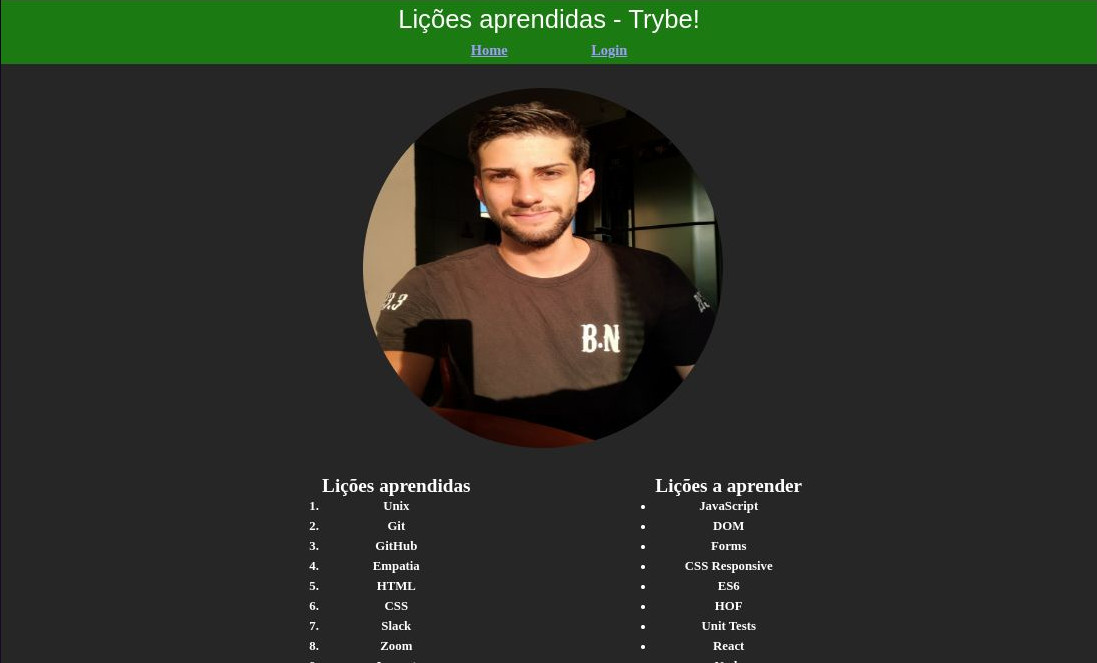
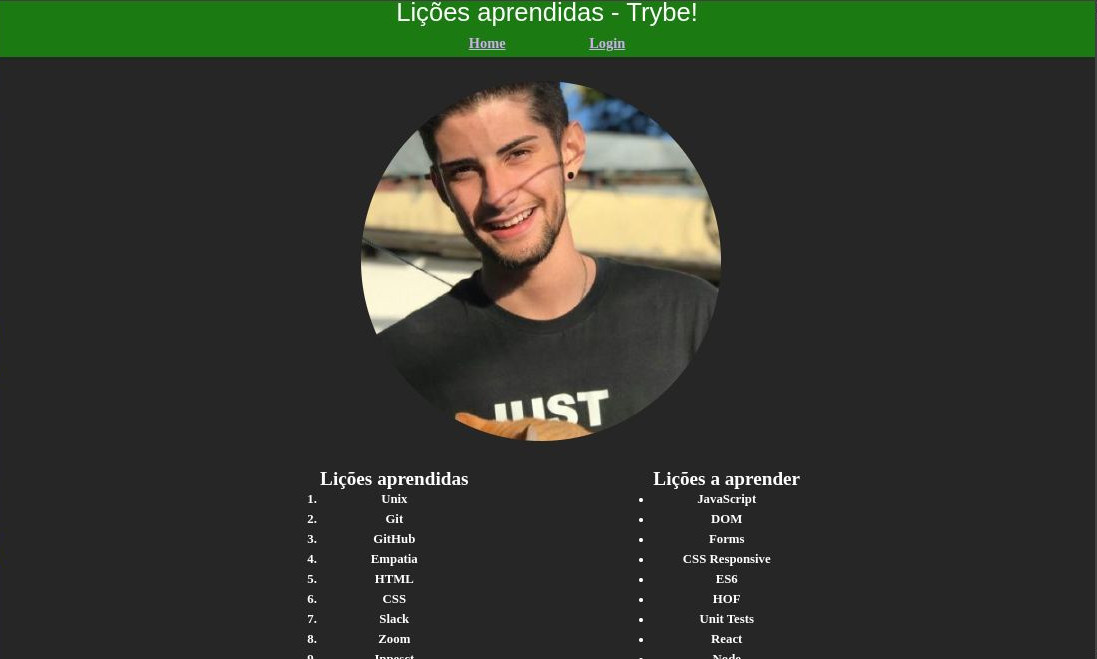
add new photo for preview

diff --git a/index.html b/index.html
@@ -19,7 +19,7 @@
     </header>
 
     <main>
-        <img id="minha_foto" src="./img/henrique.jpg" alt="foto-do-henrique-rocha">
+        <img id="minha_foto" src="./img/henrique.jpeg" alt="foto-do-henrique-rocha">
         <div class="licoes-conteiner">
             <ol id="licoes_aprendidas">
                 <h2>Lições aprendidas</h2>
